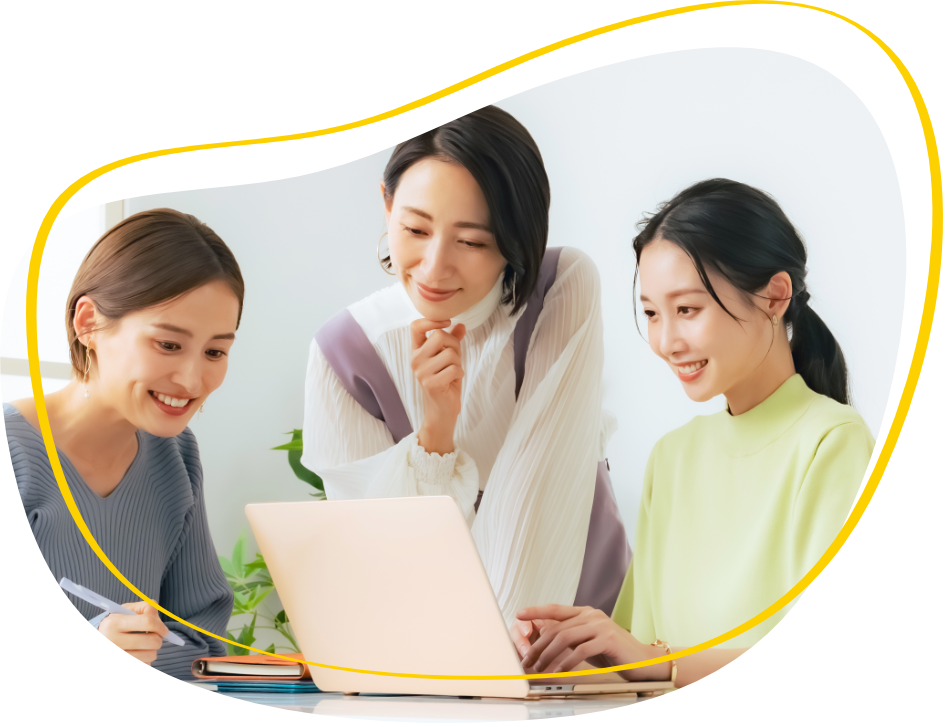
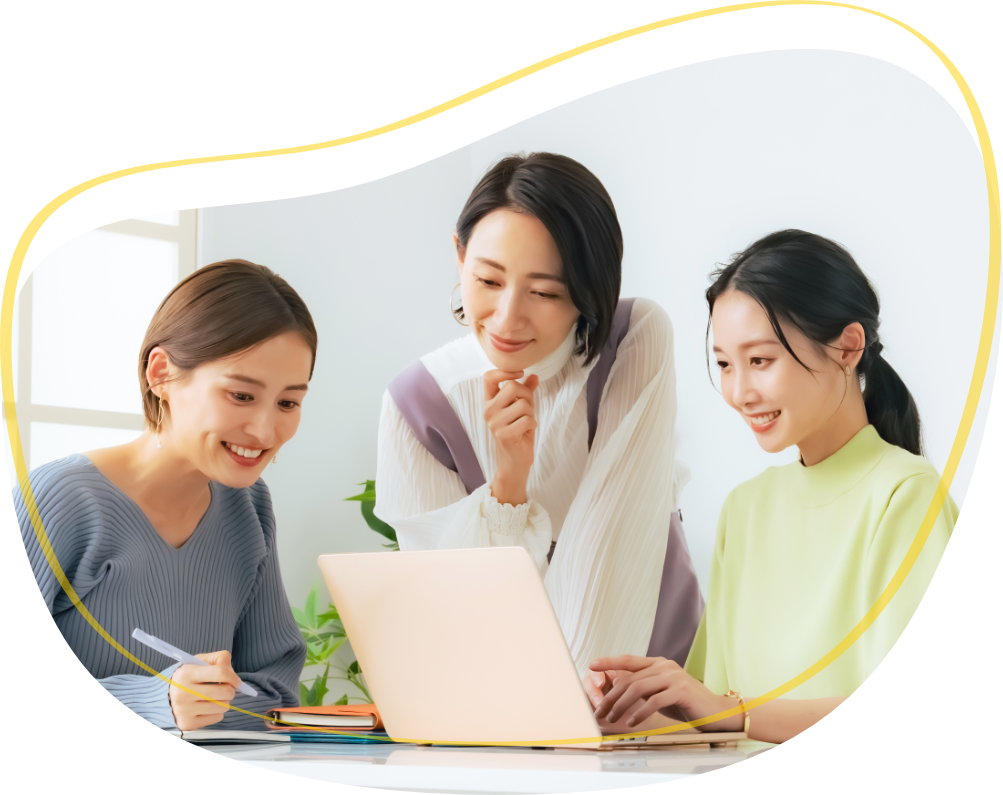
StackCardsSection調整

diff --git a/components/sections/StackCardsSection.tsx b/components/sections/StackCardsSection.tsx
@@ -49,6 +49,42 @@ const STACK_DELAY_MARGIN_VH = 40
 /** 最後のカードが前のカードに重なって止まるまで必要な下方向の余白（vh）。この分の minHeight をスペーサーで確保 */
 const STACK_END_SPACER_VH = 80
 
+/** カード・グリッド・画像・ウェーブのレイアウト調整（xl=1280px, 2xl=1536px） */
+const LAYOUT = {
+    /** カード高さ: xl で短め、2xl で標準 */
+    cardHeight: 'xl:h-[calc(66vh+4rem)] xl:min-h-[66vh] 2xl:h-[calc(72vh+4rem)] 2xl:min-h-[72vh]',
+    cardPadding: 'xl:py-4 xl:pb-0',
+    /** 画像左のときの article 横パディング */
+    cardPaddingLeft: 'xl:px-0 xl:pl-6 xl:pr-6 2xl:pr-8',
+    /** 画像右のときの article 横パディング */
+    cardPaddingRight: 'xl:px-0 xl:pl-10 2xl:pl-14 xl:pr-6',
+    /** グリッド: 縦積み時の gap / 2カラム時の gap */
+    gridGap: 'gap-6 xl:gap-8',
+    /** ウェーブ上の余白: 画像右は多め */
+    gridPbRight: 'xl:pb-24 2xl:pb-28',
+    gridPbLeft: 'xl:pb-16 2xl:pb-20',
+    gridMinH: 'min-h-0 xl:min-h-[66vh] 2xl:min-h-[72vh]',
+    gridColsLeft: 'xl:grid-cols-[minmax(0,1.5fr)_minmax(280px,1.5fr)]',
+    gridColsRight: 'xl:grid-cols-[minmax(280px,1.4fr)_minmax(0,1.6fr)]',
+    /** 画像エリア: 縦積み時の下余白 / 2カラム時は 0 */
+    imageMb: 'mb-6 xl:mb-0',
+    /** 画像エリア: 2カラム時の上余白（画像を少し下に） */
+    imageMt: 'xl:mt-6',
+    imagePadding: 'p-4 xl:p-6',
+    /** 画像高さ（全カード共通: モバイル px / xl / 2xl vh） */
+    imageHeight: 'h-[280px] xl:h-[60vh] 2xl:h-[66vh]',
+    imagePlaceholderMinH: 'min-h-[140px] xl:min-h-[180px]',
+    /** テキスト列の最小幅（2カラム時） */
+    textMinW: 'xl:min-w-[280px]',
+    textColPadding: 'pl-0 order-1 xl:pl-6 xl:order-2 2xl:pl-8',
+    /** numberLabel 下余白 */
+    numberLabelMb: 'mb-4 xl:mb-10',
+    /** ウェーブ高さ: ベース / xl / 2xl */
+    waveH: 'h-10 xl:h-14 2xl:h-24',
+    waveOffsetLeft: 'xl:-left-6 xl:-right-6 xl:w-[calc(100%+3rem)]',
+    waveOffsetRight: 'xl:-left-10 xl:-right-6 xl:w-[calc(100%+4rem)]',
+} as const
+
 type Props = {
     cards: StackCardItem[]
     sectionLabel?: string
@@ -113,31 +149,29 @@ export default function StackCardsSection({ cards, sectionLabel = 'OurDeskの取
                                 if (firstCardRef != null && i === 0) firstCardRef.current = el
                                 if (lastCardRef != null && i === cards.length - 1) lastCardRef.current = el
                             }}
-                            className={`sticky z-10 min-h-0 2xl:h-[calc(72vh+4rem)] 2xl:min-h-[72vh] flex flex-col justify-start 2xl:justify-center rounded-2xl overflow-hidden shadow-lg ring-1 ring-gray-200/60 px-7 py-0 2xl:py-4 2xl:pb-0 ${getStickyTopClass(i)} ${card.imageOrder === 'left' ? '2xl:px-0 2xl:pl-6 2xl:pr-6 2xl:pr-8' : '2xl:px-0 2xl:pl-10 2xl:pl-14 2xl:pr-6'}`}
+                            className={`sticky z-10 min-h-0 ${LAYOUT.cardHeight} flex flex-col justify-start xl:justify-center rounded-2xl overflow-hidden shadow-lg ring-1 ring-gray-200/60 px-7 py-0 ${LAYOUT.cardPadding} ${getStickyTopClass(i)} ${card.imageOrder === 'left' ? LAYOUT.cardPaddingLeft : LAYOUT.cardPaddingRight}`}
                             style={{
                                 background: 'rgb(255,255,255)',
                                 ...(i >= 1 && { marginTop: `${STACK_DELAY_MARGIN_VH}vh` }),
                             }}
                         >
                             {/* imageOrder に応じてテキストと画像エリアの並びを左右反転。画像あり時は画像列を広めに */}
-                            <div className={`grid grid-cols-1 gap-6 2xl:gap-8 w-full max-w-full items-start 2xl:items-center pb-0 ${card.imageOrder === 'right' ? '2xl:pb-24 2xl:pb-28' : '2xl:pb-16 2xl:pb-20'} ${card.imageSrc ? 'min-h-0 2xl:min-h-[72vh]' : ''} ${card.imageOrder === 'left' ? '2xl:grid-cols-[minmax(0,1.5fr)_minmax(280px,1.5fr)]' : '2xl:grid-cols-[minmax(280px,1.4fr)_minmax(0,1.6fr)]'}`}>
+                            <div className={`grid grid-cols-1 ${LAYOUT.gridGap} w-full max-w-full items-start xl:items-center pb-0 ${card.imageOrder === 'right' ? LAYOUT.gridPbRight : LAYOUT.gridPbLeft} ${card.imageSrc ? LAYOUT.gridMinH : ''} ${card.imageOrder === 'left' ? LAYOUT.gridColsLeft : LAYOUT.gridColsRight}`}>
                                 {card.imageOrder === 'left' && (
                                     <div
-                                        className={`relative order-2 2xl:order-1 overflow-hidden p-4 2xl:p-6 mt-0 mb-6 2xl:mb-0 w-full min-w-0 ${card.imageSrc ? (i === 0 ? 'h-[360px] 2xl:h-[72vh]' : i === 2 ? 'h-[300px] 2xl:h-[62vh]' : 'h-[320px] 2xl:h-[72vh]') + ' aspect-[4/3] 2xl:aspect-auto' : 'min-h-[140px] 2xl:min-h-[180px] flex items-center justify-center'}`}
+                                        className={`relative order-2 xl:order-1 overflow-hidden ${LAYOUT.imagePadding} mt-0 ${LAYOUT.imageMt} ${LAYOUT.imageMb} w-full min-w-0 ${card.imageSrc ? `${LAYOUT.imageHeight} aspect-[4/3] xl:aspect-auto` : `${LAYOUT.imagePlaceholderMinH} flex items-center justify-center`}`}
                                         aria-hidden="true"
                                     >
                                         {card.imageSrc ? (
                                             <Image src={card.imageSrc} alt={card.imageAlt ?? card.title} fill className="object-contain object-center" sizes="(max-width: 768px) 100vw, 78vw" />
-                                        ) : (
-                                            <span className="text-sm text-gray-400">写真・画像用</span>
-                                        )}
+                                        ) : null}
                                     </div>
                                 )}
-                                <div className={`min-w-0 2xl:min-w-[280px] flex flex-col justify-center text-left overflow-hidden ${card.imageOrder === 'left' ? 'pl-0 order-1 2xl:pl-6 2xl:order-2 2xl:pl-8' : ''}`}>
+                                <div className={`min-w-0 ${LAYOUT.textMinW} flex flex-col justify-center text-left overflow-hidden ${card.imageOrder === 'left' ? LAYOUT.textColPadding : ''}`}>
                                     <div className="w-full">
                                         <h2 className={`${card.titleClass ?? 'text-xl xl:text-4xl'} font-extrabold mb-0.5 xl:mb-1 block drop-shadow-sm whitespace-pre-line text-[#4A4A4A] mt-5 xl:mt-0`}>{card.title}</h2>
                                         {card.numberLabel != null && card.numberLabel !== '' && (
-                                            <p className="text-sm xl:text-lg font-medium mb-8 xl:mb-16 -mt-0.5" style={{ color: '#FFB38E' }} aria-hidden="true">
+                                            <p className={`text-sm xl:text-lg font-medium ${LAYOUT.numberLabelMb} -mt-0.5`} style={{ color: '#FFB38E' }} aria-hidden="true">
                                                 {card.numberLabel}
                                             </p>
                                         )}
@@ -150,18 +184,16 @@ export default function StackCardsSection({ cards, sectionLabel = 'OurDeskの取
                                 </div>
                                 {card.imageOrder === 'right' && (
                                     <div
-                                        className={`relative overflow-hidden p-4 2xl:p-6 mt-0 mb-6 2xl:mb-0 w-full min-w-0 ${card.imageSrc ? (i === 0 ? 'h-[360px] 2xl:h-[72vh]' : i === 2 ? 'h-[300px] 2xl:h-[62vh]' : 'h-[320px] 2xl:h-[72vh]') + ' aspect-[4/3] 2xl:aspect-auto' : 'min-h-[140px] 2xl:min-h-[180px] flex items-center justify-center'}`}
+                                        className={`relative overflow-hidden ${LAYOUT.imagePadding} mt-0 ${LAYOUT.imageMt} ${LAYOUT.imageMb} w-full min-w-0 ${card.imageSrc ? `${LAYOUT.imageHeight} aspect-[4/3] xl:aspect-auto` : `${LAYOUT.imagePlaceholderMinH} flex items-center justify-center`}`}
                                         aria-hidden="true"
                                     >
                                         {card.imageSrc ? (
                                             <Image src={card.imageSrc} alt={card.imageAlt ?? card.title} fill className="object-contain object-center" sizes="(max-width: 768px) 100vw, 78vw" />
-                                        ) : (
-                                            <span className="text-sm text-gray-400">写真・画像用</span>
-                                        )}
+                                        ) : null}
                                     </div>
                                 )}
                             </div>
-                            <div className={`absolute bottom-0 left-0 right-0 h-14 xl:h-20 2xl:h-24 overflow-hidden rounded-b-2xl -left-7 -right-7 w-[calc(100%+3.5rem)] hidden xl:block ${card.imageOrder === 'left' ? 'xl:-left-6 xl:-right-6 xl:w-[calc(100%+3rem)]' : 'xl:-left-10 xl:-right-6 xl:w-[calc(100%+4rem)]'}`}>
+                            <div className={`absolute bottom-0 left-0 right-0 ${LAYOUT.waveH} overflow-hidden rounded-b-2xl -left-7 -right-7 w-[calc(100%+3.5rem)] hidden xl:block ${card.imageOrder === 'left' ? LAYOUT.waveOffsetLeft : LAYOUT.waveOffsetRight}`}>
                                 <WaveClipLayer idPrefix={`stack-card-${i}`} clipPaths={STACK_CARD_WAVE_PATHS}>
                                     <div className="absolute inset-0 bg-[#FFE566]" />
                                 </WaveClipLayer>
